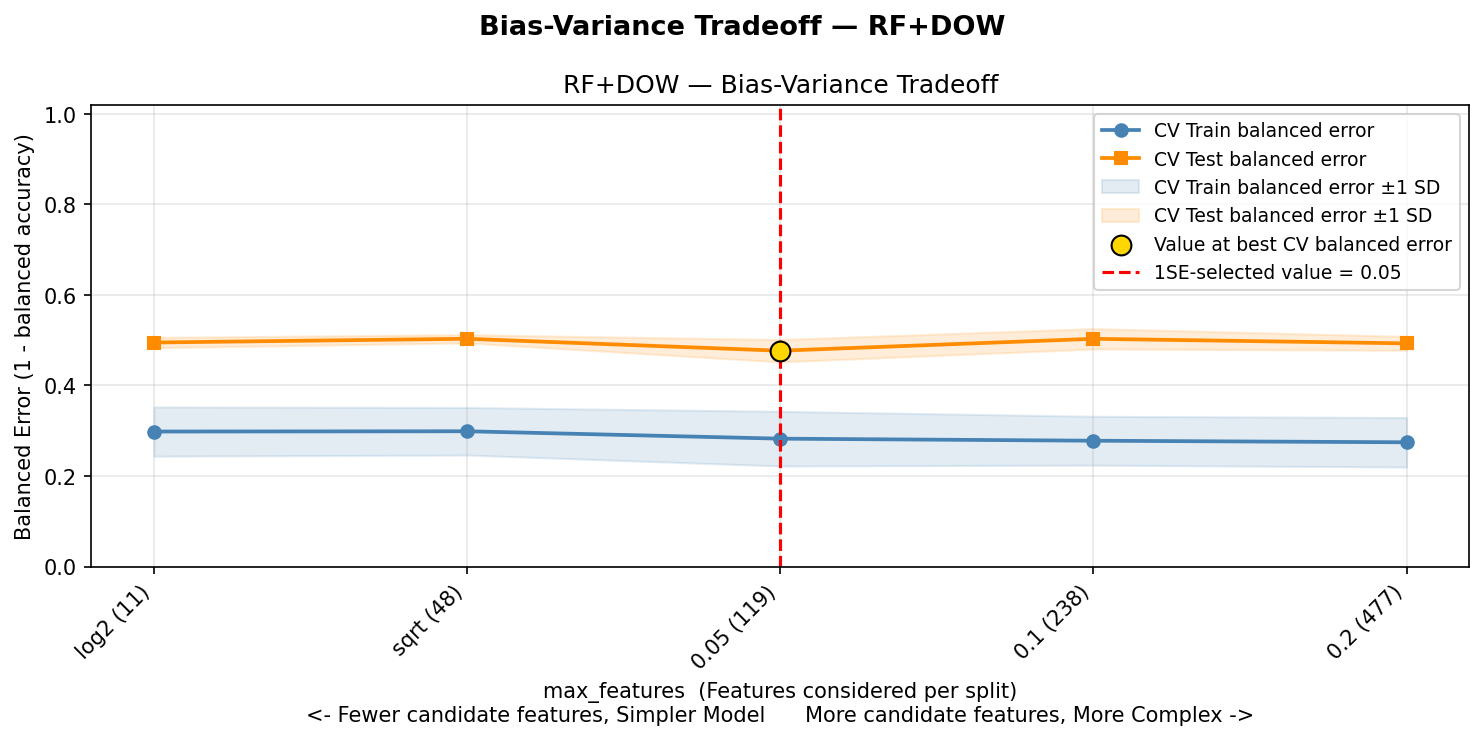
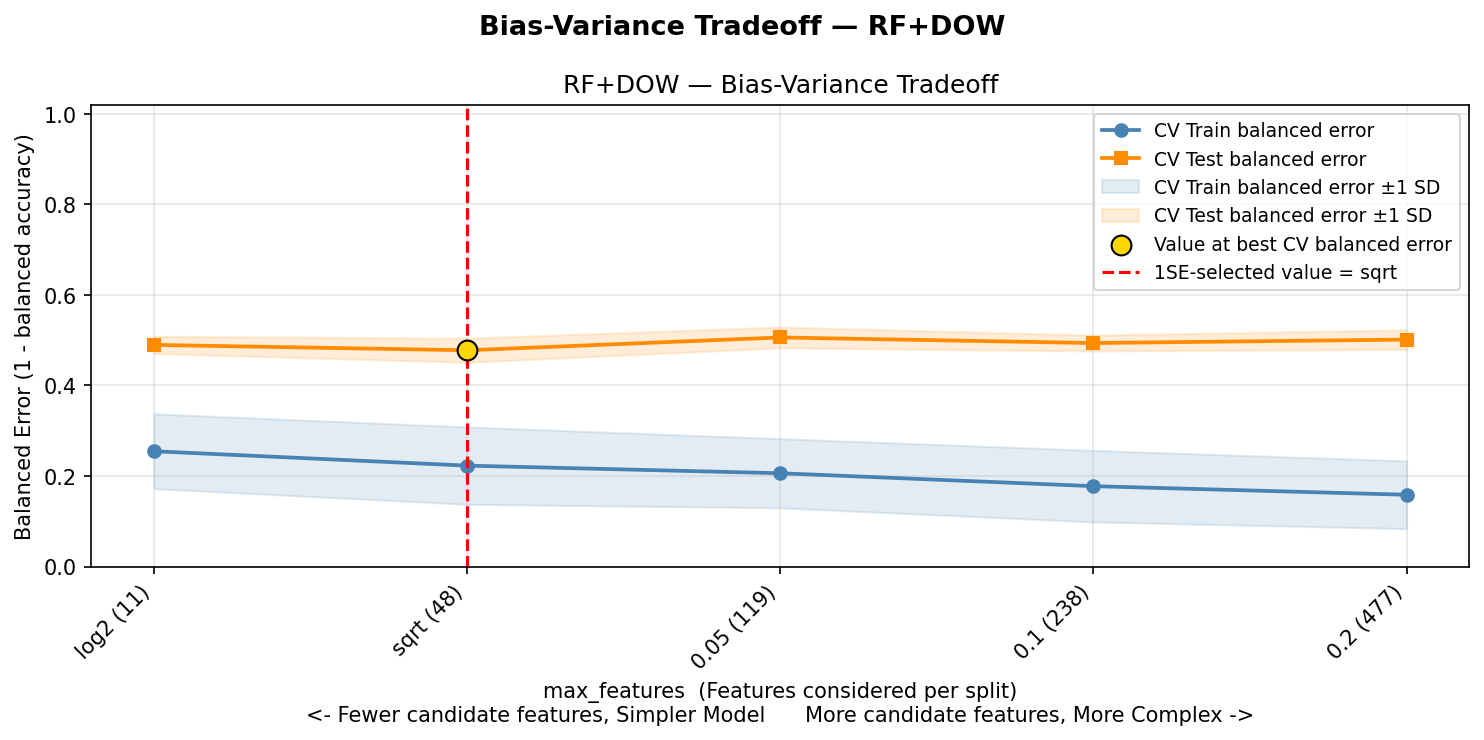
Update report figures and ORCA notes

Changed region(s): [[0.093, 0.5284, 0.9609, 0.7149], [0.093, 0.4351, 0.9609, 0.4973], [0.8989, 0.3419, 0.9609, 0.373]]

diff --git a/LaTex/Final Report.tex b/LaTex/Final Report.tex
@@ -299,12 +299,102 @@ To further investigate the temporal dependencies of the market, we also experime
 \subsection{Validation results}
 \quad \ Initially, a \verb|window_size| of 21 days was chosen to represent roughly a month worth of trading days, and a \verb|horizon| of 5 days to represent roughly a week worth of trading days. However, this posed an issue of overfitting (further in detail below) since the feature space would almost always be greater than the \verb|window_size|.
 
+The validation plots below summarize the final bias-variance tradeoffs for the best-performing daily models retained in the 8-year analysis. They are included here to show how the selected model complexity settings balanced cross-validation fit against out-of-sample performance.
+
+\begin{figure}[htbp]
+  \centering
+  \safeincludegraphics[width=0.95\textwidth]{../output/8yrs_1SE_base_logistic_best_bias_variance.png}
+  \caption{Best bias-variance tradeoff among baseline logistic-regression models on raw OHLCV features.}
+  \label{fig:validation-base-logreg-best-bv}
+\end{figure}
+
+\begin{figure}[htbp]
+  \centering
+  \safeincludegraphics[width=0.95\textwidth]{../output/8yrs_1SE_base_logistic_best_bias_variance_pca_n_components.png}
+  \caption{Best PCA-based bias-variance tradeoff among baseline logistic-regression models.}
+  \label{fig:validation-base-logreg-pca-best-bv}
+\end{figure}
+
+\begin{figure}[htbp]
+  \centering
+  \safeincludegraphics[width=0.95\textwidth]{../output/8yrs_logreg_best_bias_variance.png}
+  \caption{Best bias-variance tradeoff among engineered-feature logistic-regression models.}
+  \label{fig:validation-logreg-best-bv}
+\end{figure}
+
+\begin{figure}[htbp]
+  \centering
+  \safeincludegraphics[width=0.95\textwidth]{../output/8yrs_base_rf_best_model_bias_variance.png}
+  \caption{Best overall bias-variance tradeoff among baseline random-forest models.}
+  \label{fig:validation-base-rf-best-bv}
+\end{figure}
+
+\begin{figure}[htbp]
+  \centering
+  \safeincludegraphics[width=0.95\textwidth]{../output/8yrs_base_rf_best_model_bias_variance_classifier_max_features.png}
+  \caption{Bias-variance sensitivity of the selected baseline random-forest model to \texttt{max\_features}.}
+  \label{fig:validation-base-rf-best-bv-max-features}
+\end{figure}
+
+\begin{figure}[htbp]
+  \centering
+  \safeincludegraphics[width=0.95\textwidth]{../output/8yrs_base_rf_best_model_bias_variance_classifier_n_estimators.png}
+  \caption{Bias-variance sensitivity of the selected baseline random-forest model to the number of estimators.}
+  \label{fig:validation-base-rf-best-bv-n-estimators}
+\end{figure}
+\FloatBarrier
+
 \subsection{Overfitting/underfitting analysis}
 
 
 \quad \ A general note on overfitting and other issues with select models. Given by the fact that the raw data inherently has more features than observations, overfitting was a big issue, especially in earlier implementations of the model. Overfitting results in a train misclassification rate of zero perpetually and no amount of generalization was possible towards validation sets and test splits. Furthermore, partly because of this overfitting, when certain models (most notably logistic regression) would search for an optimal hyperparameter, since the training misclassification rate would be impeccable, if the lower bound of the $C$-values were small enough, the model would degenerate to always guessing 1 or 0 depending on the imbalance in the splits. 
 
 This issue was mostly alleviated by introducing further dimensionality reduction methods (most notably grouping by sector and collinearity reduction), which reduced the dimensionality of the feature space enough for there to be any sense of meaningful training on the training set.
+
+The train-versus-test plots below complement the validation figures by showing how the best-selected model settings behaved on direct hold-out splits. These plots make the remaining overfitting and underfitting patterns easier to compare across the final daily-model candidates.
+
+\begin{figure}[htbp]
+  \centering
+  \safeincludegraphics[width=0.95\textwidth]{../output/8yrs_1SE_base_logistic_best_train_test.png}
+  \caption{Train-versus-test error for the best baseline logistic-regression model on raw OHLCV features.}
+  \label{fig:overfit-base-logreg-best-train-test}
+\end{figure}
+
+\begin{figure}[htbp]
+  \centering
+  \safeincludegraphics[width=0.95\textwidth]{../output/8yrs_1SE_base_logistic_best_train_test_pca_n_components.png}
+  \caption{Train-versus-test error for the best PCA-based baseline logistic-regression model.}
+  \label{fig:overfit-base-logreg-pca-best-train-test}
+\end{figure}
+
+\begin{figure}[htbp]
+  \centering
+  \safeincludegraphics[width=0.95\textwidth]{../output/8yrs_logreg_best_train_test.png}
+  \caption{Train-versus-test error for the best engineered-feature logistic-regression model.}
+  \label{fig:overfit-logreg-best-train-test}
+\end{figure}
+
+\begin{figure}[htbp]
+  \centering
+  \safeincludegraphics[width=0.95\textwidth]{../output/8yrs_base_rf_best_model_train_test.png}
+  \caption{Train-versus-test error for the best overall baseline random-forest model.}
+  \label{fig:overfit-base-rf-best-train-test}
+\end{figure}
+
+\begin{figure}[htbp]
+  \centering
+  \safeincludegraphics[width=0.95\textwidth]{../output/8yrs_base_rf_best_model_train_test_classifier_max_features.png}
+  \caption{Train-versus-test sensitivity of the selected baseline random-forest model to \texttt{max\_features}.}
+  \label{fig:overfit-base-rf-best-train-test-max-features}
+\end{figure}
+
+\begin{figure}[htbp]
+  \centering
+  \safeincludegraphics[width=0.95\textwidth]{../output/8yrs_base_rf_best_model_train_test_classifier_n_estimators.png}
+  \caption{Train-versus-test sensitivity of the selected baseline random-forest model to the number of estimators.}
+  \label{fig:overfit-base-rf-best-train-test-n-estimators}
+\end{figure}
+\FloatBarrier
 
 \section{Discussion}
 

diff --git a/output/8yrs_1SE_base_logistic_comparison.tex b/output/8yrs_1SE_base_logistic_comparison.tex
@@ -1,24 +1,26 @@
 \begin{table}[htbp]
 \centering
 \caption{Logistic Regression Model Comparison: Raw OHLCV vs Raw OHLCV + Day-of-Week}
-\label{tab:base_logistic_comparison}
+\label{tab:base\_logistic\_comparison}
 \begin{tabular}{lrrrrr}
 \toprule
 Model & ROC-AUC & MCC & Test Acc & Recall & Specificity \\
 \midrule
-Base+PCA (168, 95\%) & 0.463 & -0.031 & 0.530 & 0.949 & 0.038 \\
-Raw Ridge & 0.489 & -0.019 & 0.535 & 0.972 & 0.022 \\
-Raw LASSO & 0.504 & -0.065 & 0.450 & 0.180 & 0.768 \\
-Raw Ridge+PCA (389) & 0.484 & -0.002 & 0.537 & 0.972 & 0.027 \\
-Raw LASSO+PCA (61) & 0.539 & 0.091 & 0.485 & 0.074 & 0.968 \\
+Base+PCA (3, 65\%) & 0.530 & 0.058 & 0.502 & 0.249 & 0.800 \\
+Raw Ridge & 0.489 & -0.039 & 0.532 & 0.972 & 0.016 \\
+Raw LASSO$^\dagger$ & 0.500 & 0.000 & 0.460 & 0.000 & 1.000 \\
+Raw Ridge+PCA (3)$^\dagger$ & 0.529 & 0.000 & 0.460 & 0.000 & 1.000 \\
+Raw LASSO+PCA (3)$^\dagger$ & 0.529 & 0.000 & 0.460 & 0.000 & 1.000 \\
 \midrule
-Base+DOW+PCA (8, 80\%) & 0.529 & 0.065 & 0.465 & 0.009 & 1.000 \\
-Ridge+DOW & 0.481 & -0.024 & 0.535 & 0.977 & 0.016 \\
-LASSO+DOW & 0.504 & -0.065 & 0.450 & 0.180 & 0.768 \\
-Ridge+PCA+DOW (5) & 0.516 & 0.014 & 0.505 & 0.479 & 0.535 \\
-LASSO+PCA+DOW (3) & 0.530 & -0.054 & 0.458 & 0.000 & 0.995 \\
+Base+DOW+PCA (3, 65\%) & 0.530 & 0.058 & 0.502 & 0.249 & 0.800 \\
+Ridge+DOW & 0.489 & -0.039 & 0.532 & 0.972 & 0.016 \\
+LASSO+DOW & 0.504 & -0.016 & 0.488 & 0.433 & 0.551 \\
+Ridge+PCA+DOW (3)$^\dagger$ & 0.529 & 0.000 & 0.460 & 0.000 & 1.000 \\
+LASSO+PCA+DOW (3)$^\dagger$ & 0.529 & 0.000 & 0.460 & 0.000 & 1.000 \\
 \bottomrule
 \end{tabular}
 \par\smallskip
-\footnotesize Base = baseline logistic regression without regularization. Test Acc = plain hold-out accuracy on the final 20\% test split. Recall = positive-class sensitivity.
+\footnotesize Base = baseline logistic regression without regularization. Test Acc = plain hold-out accuracy on the final 20\% test split. All reported CV/train/test accuracy columns in this table use plain accuracy after hyperparameters were selected by CV balanced accuracy. Recall = positive-class sensitivity.
+\\
+\footnotesize $^\dagger$ Degenerate classifier: optimal $C = 10^{-6}$ shrinks all coefficients to zero; model predicts majority class for every observation (Recall = 1.0, Precision $\approx$ base rate).
 \end{table}

diff --git a/PyScripts/Models/H_eval.py b/PyScripts/Models/H_eval.py
@@ -614,6 +614,11 @@ def _latex_escape(text: str) -> str:
             .replace("}", r"\}"))
 
 
+def _latex_label(text: str) -> str:
+    """Keep LaTeX labels machine-safe without escaping underscores."""
+    return str(text).strip().replace(" ", "_")
+
+
 def write_base_style_latex_table(df: pd.DataFrame, path, caption: str, label: str, note: str) -> None:
     """Write a simple LaTeX comparison table using the base.py reporting columns."""
     col_fmt = 'l' + 'r' * len(df.columns)
@@ -622,7 +627,7 @@ def write_base_style_latex_table(df: pd.DataFrame, path, caption: str, label: st
         f.write(r'\begin{table}[htbp]' + '\n')
         f.write(r'\centering' + '\n')
         f.write(r'\caption{' + _latex_escape(caption) + '}\n')
-        f.write(r'\label{' + _latex_escape(label) + '}\n')
+        f.write(r'\label{' + _latex_label(label) + '}\n')
         f.write(r'\begin{tabular}{' + col_fmt + '}\n')
         f.write(r'\toprule' + '\n')
         f.write(col_header + '\n')
@@ -667,7 +672,7 @@ def write_grouped_latex_table(
         f.write(r'\begin{table}[htbp]' + '\n')
         f.write(r'\centering' + '\n')
         f.write(r'\caption{' + _latex_escape(caption) + '}\n')
-        f.write(r'\label{' + _latex_escape(label) + '}\n')
+        f.write(r'\label{' + _latex_label(label) + '}\n')
         f.write(r'\begin{tabular}{' + col_fmt + '}\n')
         f.write(r'\toprule' + '\n')
         f.write(col_header + '\n')

diff --git a/output/8yrs_1SE_base_random_forest.tex b/output/8yrs_1SE_base_random_forest.tex
@@ -1,18 +1,18 @@
 \begin{table}[htbp]
 \centering
 \caption{Random Forest Model Comparison: Raw OHLCV vs +Day-of-Week}
-\label{tab:base_rf_comparison}
+\label{tab:base\_rf\_comparison}
 \begin{tabular}{lrrrrr}
 \toprule
 Model & ROC-AUC & MCC & Test Acc & Recall & Specificity \\
 \midrule
-Raw RF & 0.508 & -0.031 & 0.458 & 0.009 & 0.984 \\
-PCA RF & 0.430 & -0.099 & 0.440 & 0.051 & 0.897 \\
+Raw RF & 0.513 & 0.055 & 0.530 & 0.558 & 0.497 \\
+PCA RF & 0.527 & 0.069 & 0.552 & 0.871 & 0.178 \\
 \midrule
-RF+DOW & 0.545 & 0.026 & 0.473 & 0.078 & 0.935 \\
-PCA RF+DOW & 0.472 & -0.031 & 0.458 & 0.009 & 0.984 \\
+RF+DOW & 0.595 & 0.128 & 0.550 & 0.415 & 0.708 \\
+PCA RF+DOW & 0.468 & -0.055 & 0.475 & 0.507 & 0.438 \\
 \bottomrule
 \end{tabular}
 \par\smallskip
-\footnotesize Test Acc = plain hold-out accuracy on the final 20\% test split. Recall = positive-class sensitivity.
+\footnotesize Test Acc = plain hold-out accuracy on the final 20\% test split. All reported CV/train/test accuracy columns in this table use plain accuracy after hyperparameters were selected by CV balanced accuracy. Recall = positive-class sensitivity.
 \end{table}

diff --git a/output/8yrs_base_svm_comparison.tex b/output/8yrs_base_svm_comparison.tex
@@ -1,16 +1,14 @@
 \begin{table}[htbp]
 \centering
-\caption{Logistic Regression Model Comparison}
-\label{tab:logistic\_regression\_comparison}
+\caption{Raw SVM Model Comparison}
+\label{tab:base\_svm\_comparison}
 \begin{tabular}{lrrrrr}
 \toprule
 Model & ROC-AUC & MCC & Test Acc & Recall & Specificity \\
 \midrule
-PCA Base & 0.494 & -0.059 & 0.453 & 0.219 & 0.731 \\
-Ridge & 0.457 & 0.010 & 0.529 & 0.805 & 0.203 \\
-LASSO & 0.478 & -0.008 & 0.539 & 0.981 & 0.016 \\
-PCA Ridge(int.) & 0.513 & -0.067 & 0.448 & 0.033 & 0.940 \\
-PCA LASSO(int.) & 0.523 & -0.006 & 0.499 & 0.516 & 0.478 \\
+Raw Linear SVM & 0.465 & -0.024 & 0.535 & 0.977 & 0.016 \\
+Raw RBF SVM & 0.509 & 0.010 & 0.540 & 0.986 & 0.016 \\
+Raw Poly SVM & 0.518 & 0.034 & 0.480 & 0.124 & 0.897 \\
 \bottomrule
 \end{tabular}
 \par\smallskip
